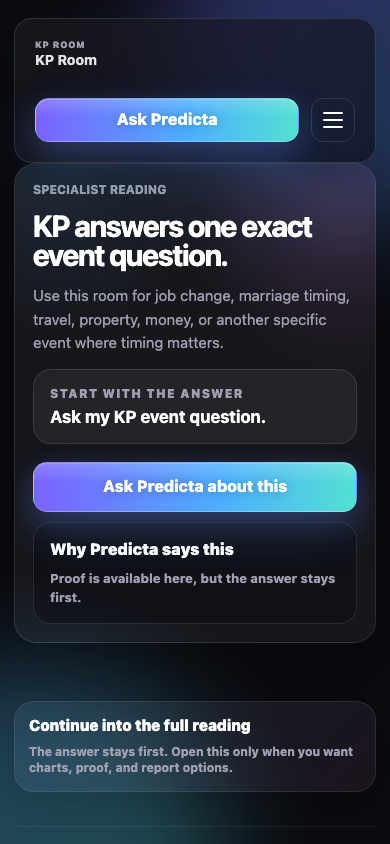
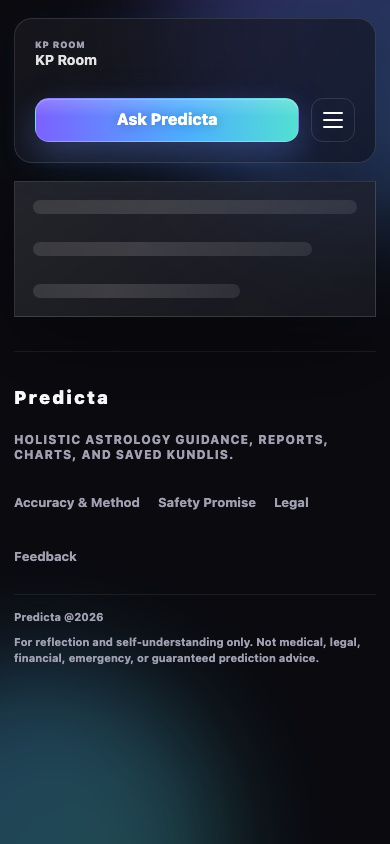
Bootstrap locale before hydration
Add an early root-layout language bootstrap so Predicta applies the stored Hindi or Gujarati preference to html lang, direction, and Predicta language metadata before client effects run.

Audit: translation coverage, translation trust, web production build, race-free web typecheck, server HTML bootstrap inspection, rendered Gujarati mobile domcontentloaded check, UI text overflow, UI personal-space, app revival phase 7 link reliability, and app revival phase 8 mobile app-feel gates all passed.

Changed region(s): [[0.0308, 0.1848, 0.9846, 0.8009], [0.0615, 0.8318, 0.8923, 0.9242]]

diff --git a/apps/web/app/layout.tsx b/apps/web/app/layout.tsx
@@ -3,6 +3,24 @@ import type { Metadata, Viewport } from 'next';
 import type { ReactNode } from 'react';
 import { ClientServicesProvider } from '../components/ClientServicesProvider';
 
+const LANGUAGE_BOOTSTRAP_SCRIPT = `
+try {
+  var value = window.localStorage.getItem('pridicta.languagePreference.v1');
+  var parsed = value ? JSON.parse(value) : null;
+  var rawLanguage = typeof parsed === 'string'
+    ? parsed
+    : parsed && (parsed.appLanguage || parsed.language);
+  var language = rawLanguage === 'hi' || rawLanguage === 'gu' ? rawLanguage : 'en';
+  document.documentElement.lang = language;
+  document.documentElement.dir = 'ltr';
+  document.documentElement.dataset.predictaLanguage = language;
+} catch (error) {
+  document.documentElement.lang = 'en';
+  document.documentElement.dir = 'ltr';
+  document.documentElement.dataset.predictaLanguage = 'en';
+}
+`;
+
 export const metadata: Metadata = {
   description: 'Predicta premium Vedic astrology guidance.',
   title: 'Predicta',
@@ -20,8 +38,11 @@ export default function RootLayout({
   children: ReactNode;
 }): React.JSX.Element {
   return (
-    <html lang="en">
+    <html lang="en" suppressHydrationWarning>
       <body>
+        <script
+          dangerouslySetInnerHTML={{ __html: LANGUAGE_BOOTSTRAP_SCRIPT }}
+        />
         <ClientServicesProvider />
         <div className="page-shell">
           <div className="content-layer">{children}</div>